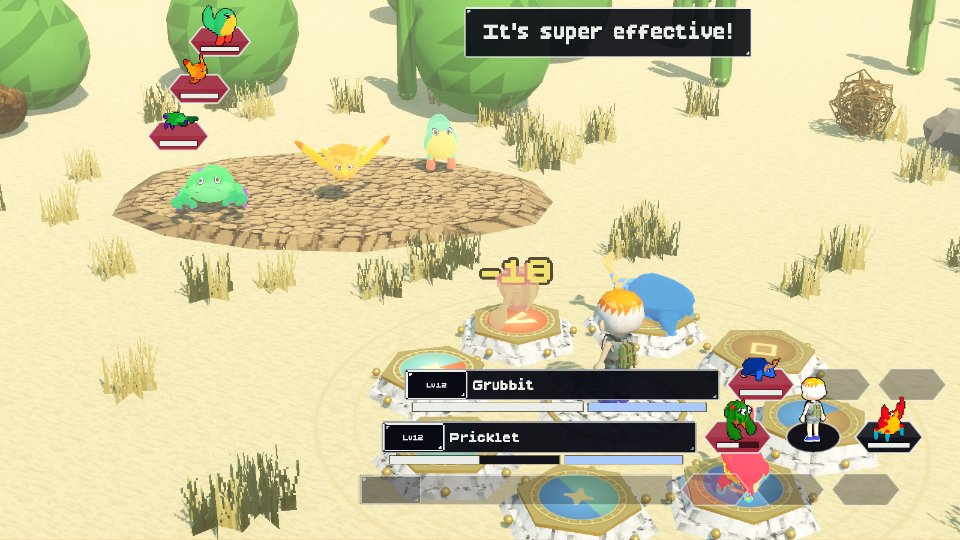
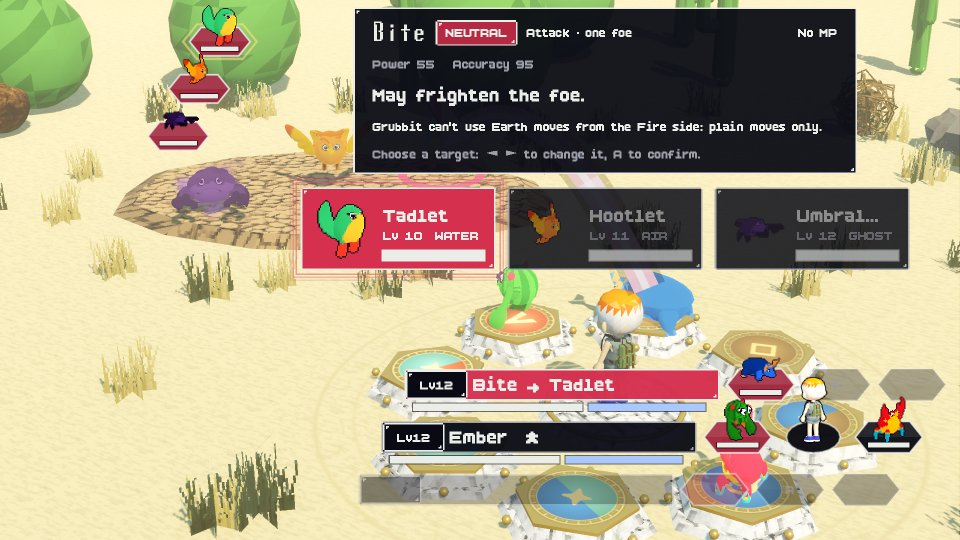
Open the README with the title screen, retake its screenshots and add six more
The README now opens on the title screen; Cocoon Cove moves down beside Elder Rowan's eggs. The twelve
older pictures are retaken from the game as it is now (the summon at its arrival, which comes later now;
the beasts as a five-line grid; fishing while reeling one in; Tidewater without its welcome over it). New:
the world map, the Temple of Flame, the Beast Center, calling Dad to save, and your bedroom upstairs.

Harness: --scene=call stands you at the phone at home (or the payphone, --where=payphone) and plays the
call up to Dad's first line without saving; --snap keeps a .jpg path's extension; the fishing scene skips
Tidewater's first-visit welcome, which stayed up under the fishing.

diff --git a/README.md b/README.md
@@ -2,7 +2,7 @@
 
 A low-poly, PS1-style beast-training RPG for **Godot 4.7**. You hatch your first beast from an egg, battle to make it stronger as it grows into its second and third forms, charm wild beasts with your flute, merge grown beasts into new ones built from both, and stop the Umbral Legion and their ghost beasts.
 
-<img src="docs/screenshots/cove.jpg" width="800" alt="Cocoon Cove, the seaside hamlet where you start."><br><sub>Cocoon Cove, the seaside hamlet where you start.</sub>
+<img src="docs/screenshots/title.jpg" width="800" alt="The title screen, with Cocoon Cove behind it."><br><sub>The title screen, with Cocoon Cove behind it.</sub>
 
 ## Running it
 
@@ -52,6 +52,9 @@ You start at home in **Cocoon Cove** on the coast with no beasts, no flute and n
 
 1. Mom tells you that your father's flute is waiting with **Uncle Rafe** in Tidewater, the next town east.
 2. Elder Rowan lets you choose one of four elemental eggs.
+
+   <img src="docs/screenshots/cove.jpg" width="640" alt="Cocoon Cove, the seaside hamlet where you start."><br><sub>Cocoon Cove, the seaside hamlet where you start.</sub>
+
 3. The Beast Center hatches it into a **level 1** beast.
 4. Scout Bram keeps the gate to the Coastal Path shut until you have a beast of your own.
 5. The **Coastal Path** is the tutorial: a winding trail through the woods with five teachers on it (`world_db.gd`
@@ -98,6 +101,8 @@ Townsfolk and residents add a casual hint about what to do next to whatever else
 | Jungle | Vinehollow | The village sells the finest gear in the land. The shaman needs the Sun, Moon and Earth relics; the ritual raises the hidden **Temple of Roots**. |
 | River and moor | Riverbend, Gravenmoor | Gravenmoor is the Legion's town. Ghost beasts can be hatched and merged from here on. The gravedigger teaches the Requiem of Dusk. Commander Nyx guards the cathedral, and General Vexmora waits in the crypt beneath it. |
 
+<img src="docs/screenshots/worldmap.jpg" width="640" alt="The world map: the towns you've been to, and ??? for the ones you haven't reached yet."><br><sub>The world map: the towns you've been to, and ??? for the ones you haven't reached yet.</sub>
+
 Every road between towns narrows to one bottleneck with a puzzle, getting harder as you go:
 
 | Road | Puzzle |
@@ -131,7 +136,7 @@ obstacles (driftwood, sand drifts, boulders, dust storms, ravines) still turn up
   (Shellhaven, Kelpwick), a Spinner Lure from Copperpick, Cogsworth and Emberfall, a Glow Lure from Riverbend and
   Gravenmoor. Captain Gull's ferry is moored by the long pier, and Gil's rowboat by his shack (map `boats`).
 
-  <img src="docs/screenshots/fishing.jpg" width="640" alt="Fishing with Gil off his shack's deck in Tidewater."><br><sub>Fishing with Gil off his shack's deck in Tidewater.</sub>
+  <img src="docs/screenshots/fishing.jpg" width="640" alt="Reeling one in with Gil, off his shack's deck in Tidewater."><br><sub>Reeling one in with Gil, off his shack's deck in Tidewater.</sub>
 
 - **13 beast lines** of three forms each (`race_db.gd` LINES): Fire has the spiky dino (Embit, Cinderex, Pyrosaur),
   the cactus (Pricklet, Spinesear, Saguaroar) and the pink imp (Impkin, Scampyre, Infernook); Earth the beetle
@@ -159,6 +164,8 @@ obstacles (driftwood, sand drifts, boulders, dust storms, ravines) still turn up
   A guardian can't be knocked out (it rises again): weaken it and play its song to capture it. In battle the same song
   summons it, once per battle for one shield point, to hit every foe for about half their HP, more with an element
   advantage; bosses always survive it (`summon_fx.gd`).
+
+  <img src="docs/screenshots/temple.jpg" width="640" alt="Inside the Temple of Flame, on the Caldera Road."><br><sub>Inside the Temple of Flame, on the Caldera Road.</sub>
 
   <img src="docs/screenshots/summon.jpg" width="640" alt="Pyroclast answers your song: a summon arriving in battle."><br><sub>Pyroclast answers your song: a summon arriving in battle.</sub>
 
@@ -205,7 +212,7 @@ obstacles (driftwood, sand drifts, boulders, dust storms, ravines) still turn up
   - Your actions: **slingshot**, **items** (potions, cures, revives, elemental bombs, sleep, poison, flash, nets, snares, weaken powder, haste, iron and war-drum tonics), a **flute song**, **Watch**, and **Run** (wild) or **Forfeit** (trainers). Each beast: a move, **Defend** (half damage until its side's next turn), or **Move** (to another slot).
   - Winning plays *Android Sock Hop*. A beaten foe vanishes in a puff of smoke; your own fainted beasts lie on their pads. Damage numbers use BoldPixels.
 
-  <img src="docs/screenshots/battle.jpg" width="640" alt="A wild battle: your trainer and beasts on the ring (right), the foes across the sand."><br><sub>A wild battle: your trainer and beasts on the ring (right), the foes across the sand.</sub>
+  <img src="docs/screenshots/battle.jpg" width="640" alt="A wild battle, picking Bite's target: your trainer and beasts on the ring (right), the foes across the sand."><br><sub>A wild battle, picking Bite's target: your trainer and beasts on the ring (right), the foes across the sand.</sub>
 
 - **Shield and the end of a battle**:
   - If the beast in the middle of the side facing the foe is down (or that slot is empty), its trainer can be **attacked directly**: each hit breaks one shield point. Turn your ring to a side whose middle still stands to cover yourself, or have a corner beast Move into the fallen one's place.
@@ -249,20 +256,29 @@ obstacles (driftwood, sand drifts, boulders, dust storms, ravines) still turn up
   - Through the door in the left wall is the **kennel**, a room of its own. Kennel Keeper Pip looks after beasts other trainers left behind; they wait in the pens behind his counter, close to your party's level. Adopt one, or drop one of yours off for another trainer (Pip thanks you with a little gold). Tapping a pen walks you over to Pip. Empty pens fill up again after a few minutes of play.
   - Guide Dottie walks about the room by the entrance and explains how it all works.
   - All three wear the Beast Center uniform: a white polo with red collar and cuffs, a name badge and a diner paper hat (Pip adds a green apron).
+
+  <img src="docs/screenshots/heal.jpg" width="640" alt="Cocoon Cove's Beast Center: the healing machine glowing at the back, Nurse Clover's counter, the booths and the red phone by the door."><br><sub>Cocoon Cove's Beast Center: the healing machine glowing at the back, Nurse Clover's counter, the booths and the red phone by the door.</sub>
+
 - **Saving**: your dad is away up north for work, and **calling him is how you save**. Tell him how your journey's going, he cheers you on, and the game is saved; then keep playing, or stop for now (back to the title screen).
   - Saving is free. Red phones stand in homes, every Beast Center, the apothecary, café and music shop, the arenas' lobbies and the doorways of the temples of winds, flame and roots. Only the red **payphone** by each town's square costs anything: 5 coins a call (no coins, no call).
   - On the first morning the phone rings as you go to leave home, and you can't go out until you've answered: it's Dad, wishing you luck.
   - Ten save slots. A new game takes the first empty slot the first time you save; after that every save goes back into the same slot.
   - Each save keeps a snapshot of that moment (the world without the UI) and your play time, shown right after you save.
   - The title screen's **Load Game** lists the slots with their snapshots; you can load, copy or delete them there.
+
+  <img src="docs/screenshots/call.jpg" width="640" alt="Calling Dad from the phone at home: that's how you save."><br><sub>Calling Dad from the phone at home: that's how you save.</sub>
+
 - **Shops** differ per town. Small towns have a few; cities have many. Each building has a wordless sign fixed flat to its front above the door, showing what it is (houses have none).
 - **Inside**, every house and shop is a compact room seen whole, like a stage set: no front wall, the camera holding still, and the front door in a side wall. Blue doors open (a door to another room loads that room on its own); red ones are locked. Homes have no kitchens to wander into: many townsfolk live in studios, bed and sofa in one room, while others have a bedroom through a door or up a flight of stairs. Your own home has the living room downstairs, with Mom and the phone, and your bedroom upstairs. The big dungeons (temples, the hideout, Gearhart Tower, the Sky Tower and the cathedral) keep their own layouts, open at the front too.
   - Everyone who works in a shop stands behind a counter and wears their shop's uniform: a polo in the shop's colour with a contrasting collar and cuffs, short sleeves, a name badge and usually a visor (the sensei and the fortune teller wear headbands, the music hall's usher a pillbox hat).
+
+  <img src="docs/screenshots/bedroom.jpg" width="640" alt="Upstairs at home: your bedroom, and the stairs down to the living room."><br><sub>Upstairs at home: your bedroom, and the stairs down to the living room.</sub>
+
 - **Locked doors**: about a third of houses are locked, and so is Gravenmoor Cathedral until its Legion guard is beaten. Locked doors are crimson with iron straps and a brass padlock in every town. Try one and you knock (knock-knock-knock), and whoever is inside shouts something silly through it.
 
 ## Art
 
-<img src="docs/screenshots/tidewater.jpg" width="640" alt="Tidewater from above: its houses, the arena and the Sky Tower."><br><sub>Tidewater from above: its houses, the arena and the Sky Tower.</sub>
+<img src="docs/screenshots/tidewater.jpg" width="640" alt="Tidewater from above: its houses, the arena, the Sky Tower and the docks."><br><sub>Tidewater from above: its houses, the arena, the Sky Tower and the docks.</sub>
 
 - **App icon**: the game's original Redcoon, from before the 13 lines (with a cuter, icon-only face: big shiny eyes, a muzzle and pink ears) on a floating meadow island over a green valley. `python tools/make_icon.py` renders it with `tools/make_icon.gd` and writes Android's adaptive icon layers (background, foreground and a monochrome silhouette for themed icons) to `assets/icon/`, plus `icon.png` for the window.
 - **World and props** (trees, rocks, fences and the like) are pack models converted to OBJ plus palette PNG by `tools/import_voxel_assets.py` (with `tools/vox2obj.py` for `.vox` files), kept in `assets/voxel/` and listed in `scripts/data/voxel_manifest.gd`. The packs themselves aren't in the repository; with one downloaded again, re-import with:
@@ -577,6 +593,7 @@ godot --path . -- --scene=tap                                           # tap to
 godot --path . -- --scene=walk4 --touch                                 # four-way walking: two keys at once, a turn mid-step, gamepad d-pad and stick, B to run, the touch d-pad, tap to walk and a porch; every stop on a tile's centre ("WALK TEST DONE: 0 problem(s)")
 godot --path . -- --scene=tapzone                                       # taps near the touch controls don't walk you anywhere
 godot --path . -- --scene=saves --card=1 --shot=C:/tmp/c.png            # save slots and the "Game saved!" card
+godot --path . -- --scene=call --shot=C:/tmp/c.png                       # calling Dad from the phone at home, up to his first line (--where=payphone, --presses)
 godot --path . -- --scene=heal --shot=C:/tmp/h.png                      # the Beast Center healing machine (--what=hatch for the incubator)
 godot --path . -- --scene=defeat --at=0.2 --shot=C:/tmp/d.png           # a beaten foe's puff of smoke and a damage number
 godot --path . -- --scene=hero --shot=C:/tmp/h.png                      # the hero from four sides
